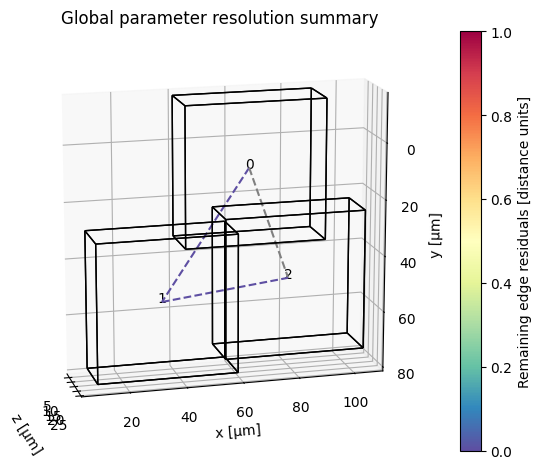
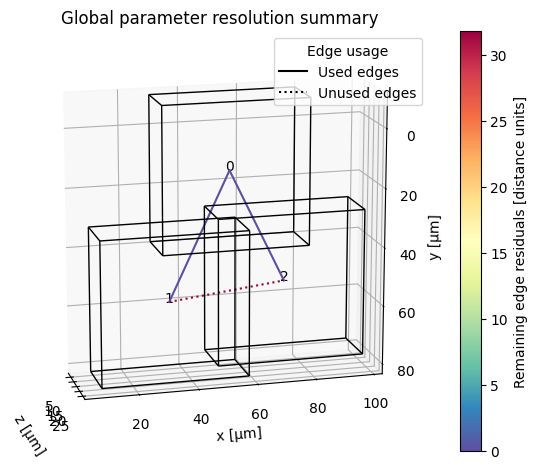
Update code example

diff --git a/docs/code_example.md b/docs/code_example.md
@@ -8,6 +8,8 @@ These code snippets walk you through a small stitching workflow consisting of
 
 Make sure to also check out the [example notebooks](https://github.com/multiview-stitcher/multiview-stitcher/tree/main/notebooks). in the `notebooks/` directory.
 
+Note that the code snippets are minimal examples and the tile boundaries shown in the visualizations contain random image data.
+
 #### 1) Prepare data for stitching
 
 
@@ -66,6 +68,10 @@ with ProgressBar():
         plot_summary=True,
     )
 ```
+
+![alt text](images/pairwise_registration_summary_example.png)
+
+![alt text](images/global_registration_summary_example.png)
 
 #### 3) Stitch / fuse the tiles
 ```python
